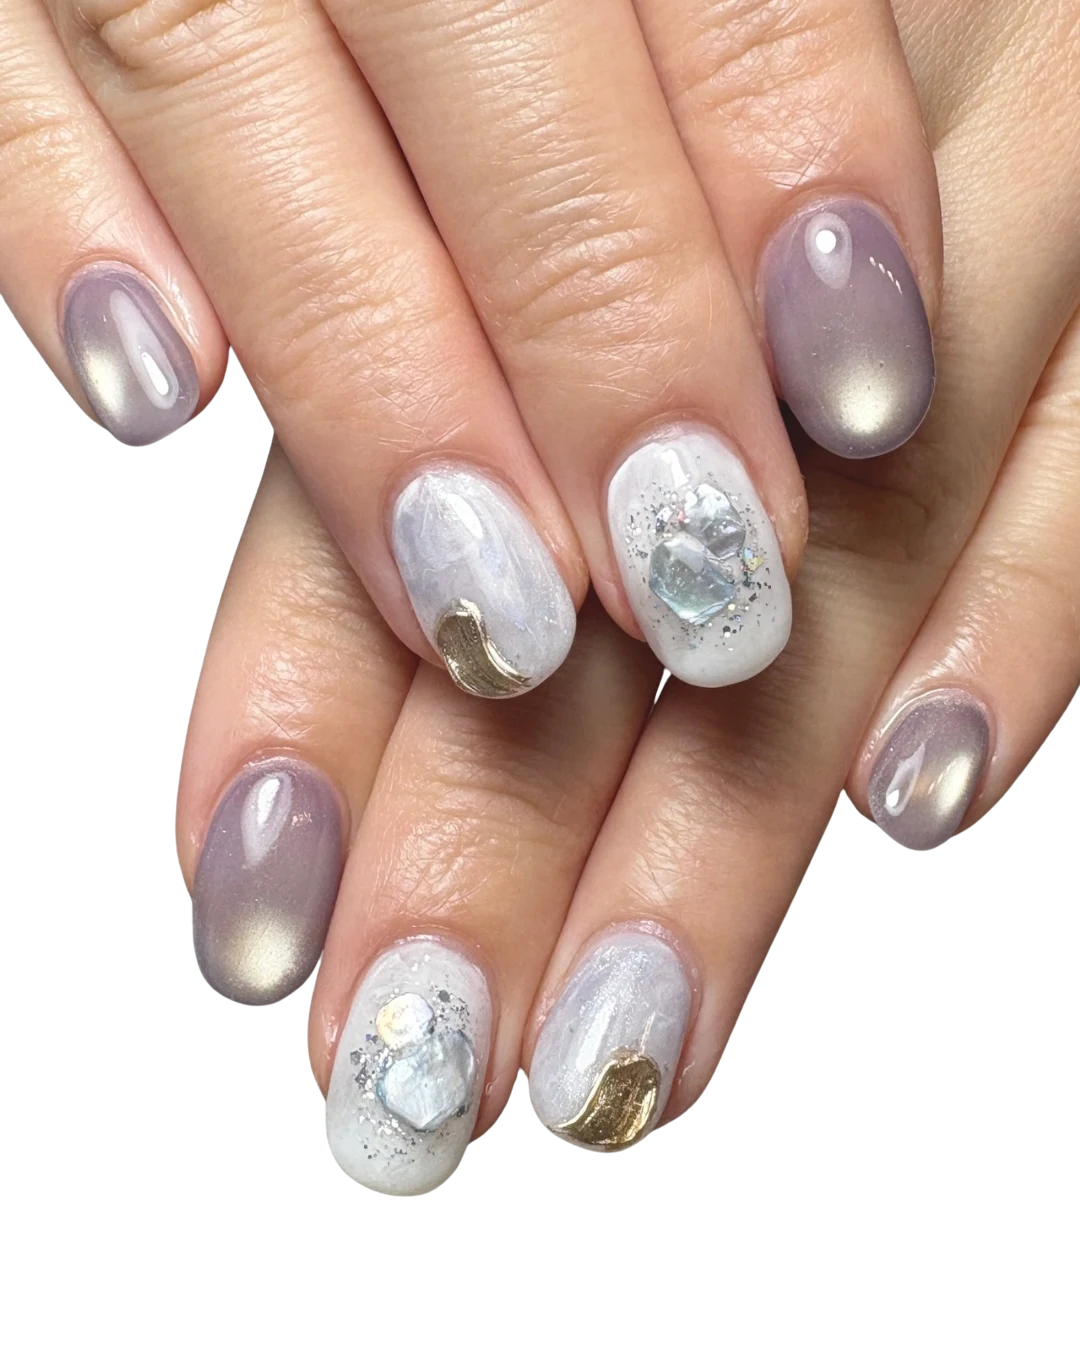
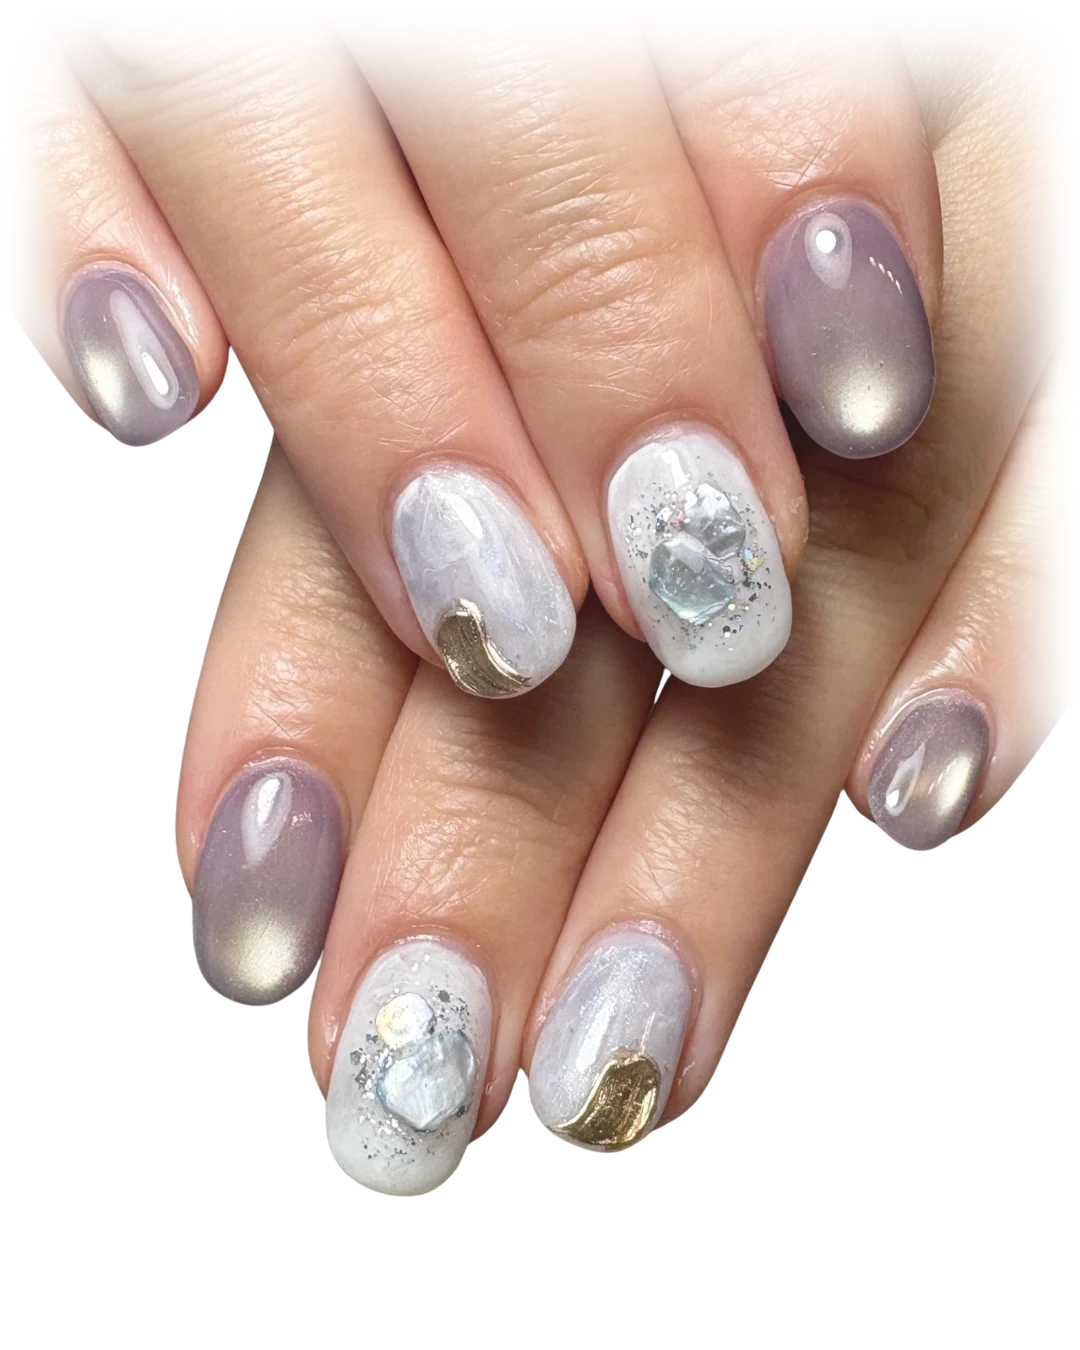
style: polish spacing, borders, and CTA layout across pages
Tightens divider colors, replaces gallery Instagram section with a
feature CtaBanner, moves menu flow steps into a full-width section,
and reorders concept icon imports.

Changed region(s): [[0.0, 0.0, 1.0, 0.5911]]

diff --git a/app/gallery/page.tsx b/app/gallery/page.tsx
@@ -85,36 +85,14 @@ export default async function GalleryPage() {
 
       <div className="max-w-5xl mx-auto w-full">
         <GalleryClient items={items} />
-
-        {/* Instagram */}
-        <section className="px-6 py-8 bg-[#F5F1FA] border-y border-[#EADFF3] flex flex-col md:flex-row items-start md:items-center justify-between gap-6">
-          <div>
-            <p className="font-serif text-sm font-medium text-[#312F55] mb-1.5">
-              最新のデザインはInstagramで随時更新中
-            </p>
-            <p className="text-xs text-[#6B6880] leading-[1.75]">
-              営業日のお知らせもInstagramのハイライトでご確認いただけます。
-              <br />
-              フォローしていただけると最新情報をお届けします。
-            </p>
-          </div>
-          <a
-            href="https://www.instagram.com/trea_nails_/"
-            target="_blank"
-            rel="noopener noreferrer"
-            className="shrink-0 inline-flex items-center gap-2 px-5 py-2.5 rounded-full text-sm font-medium border-[1.5px] border-[#833AB4] text-[#833AB4] bg-[#faf0ff] hover:bg-[#eed9ff] transition-colors"
-          >
-            <Camera size={16} />
-            Instagram: @trea_nails_
-          </a>
-        </section>
       </div>
 
       <CtaBanner
-        title="気になるデザインがあればご予約時にお知らせください"
-        description="画像をそのまま送っていただくと、イメージが伝わりやすいです"
-        primaryLabel="ご予約はこちら"
-        primaryHref="/reservation"
+        variant="feature"
+        title="最新のデザインはInstagramで随時更新中"
+        description="営業日のお知らせもInstagramのハイライトでご確認いただけます。"
+        primaryLabel="Instagram: @trea_nails_"
+        primaryHref="https://www.instagram.com/trea_nails_/"
       />
     </>
   );

diff --git a/app/globals.css b/app/globals.css
@@ -1,21 +1,23 @@
 @import "tailwindcss";
 
 :root {
-  --purple-primary: #7E78A3;   /* 塗りボタン・メインアクセント */
-  --purple-primary-dark: #6A6390; /* ホバー */
-  --purple-accent: #9690AE;    /* アイコン円・ボーダー・中間アクセント */
-  --purple-text: #5D5786;      /* アクセントテキスト・リンク */
-  --purple-dark: #4A4468;      /* 濃色テキスト・アウトラインボタン */
-  --purple-light-border: #D5D2E3;
-  --purple-light-bg: #EFEDF5;
-  --navy-heading: #312F55;     /* 見出し */
-  --lavender-section: #EFEBF1; /* ラベンダー系セクション背景 */
-  --cream-section: #F7F4F2;    /* クリーム系セクション背景 */
+  --purple-primary: #7e78a3; /* 塗りボタン・メインアクセント */
+  --purple-primary-dark: #6a6390; /* ホバー */
+  --purple-accent: #9690ae; /* アイコン円・ボーダー・中間アクセント */
+  --purple-text: #5d5786; /* アクセントテキスト・リンク */
+  --purple-dark: #4a4468; /* 濃色テキスト・アウトラインボタン */
+  --purple-light-border: #d5d2e3;
+  --purple-light-bg: #efedf5;
+  --navy-heading: #312f55; /* 見出し */
+  --lavender-section: #efebf1; /* ラベンダー系セクション背景 */
+  --cream-section: #f7f4f2; /* クリーム系セクション背景 */
 }
 
 @theme inline {
-  --font-sans: var(--font-noto-sans-jp), "Hiragino Kaku Gothic ProN", "Meiryo", sans-serif;
-  --font-serif: var(--font-noto-serif-jp), "Hiragino Mincho ProN", "Yu Mincho", serif;
+  --font-sans:
+    var(--font-noto-sans-jp), "Hiragino Kaku Gothic ProN", "Meiryo", sans-serif;
+  --font-serif:
+    var(--font-noto-serif-jp), "Hiragino Mincho ProN", "Yu Mincho", serif;
 }
 
 body {

diff --git a/app/concept/page.tsx b/app/concept/page.tsx
@@ -2,7 +2,7 @@ import SectionHeading from "@/components/common/SectionHeading";
 import SalonThought from "@/components/concept/SalonThought";
 import NameOrigin from "@/components/concept/NameOrigin";
 import CtaBanner from "@/components/common/CtaBanner";
-import { Home, Scissors, Sparkles, HandHeart } from "lucide-react";
+import { HandHeart, Home, Scissors, Sparkles } from "lucide-react";
 
 const values = [
   {
@@ -29,10 +29,10 @@ export default function ConceptPage() {
   return (
     <>
       {/* Page header */}
-      <div className="w-full  border-b border-[#D5D2E3] bg-[url('/images/common/bg-marble.webp')] bg-cover bg-center">
+      <div className="w-full bg-[url('/images/common/bg-marble.webp')] bg-cover bg-center border-b border-[#D5D2E3]">
         <div className="max-w-5xl mx-auto px-6 py-10">
-          <p className="text-[11px] text-[#5D5786] tracking-[.12em] mb-4 font-medium">
-            ✦ CONCEPT
+          <p className="flex items-center gap-2.5 text-xs font-medium text-[#312F55] tracking-[.16em] mb-6">
+            <Sparkles size={15} className="text-[#5D5786]" />✦ CONCEPT
           </p>
           <h1 className="font-serif text-2xl font-medium leading-[1.65] text-[#3A3560] mb-4">
             ネイルを通して、
@@ -50,7 +50,6 @@ export default function ConceptPage() {
       {/* Salon thought */}
       <div className="max-w-5xl mx-auto w-full">
         <SalonThought />
-
         {/* Values */}
         <section className="py-10 px-6 border-b border-[#E4E2EE]">
           <p className="flex items-center gap-2.5 text-xs font-medium text-[#312F55] tracking-[.16em] mb-6">

diff --git a/components/concept/SalonThought.tsx b/components/concept/SalonThought.tsx
@@ -3,8 +3,8 @@ import { Sparkles } from "lucide-react";
 
 export default function SalonThought() {
   return (
-    <section className="py-12 px-6 border-b border-[#E4E2EE] ">
-      <div className="grid md:grid-cols-2 gap-10 items-start">
+    <section className="py-12 px-6 border-b border-[#E4E2EE] bg-[#F7F4F2]">
+      <div className="grid md:grid-cols-[minmax(0,0.85fr)_minmax(0,1.15fr)] gap-10 items-center">
         <div>
           <p className="flex items-center gap-2.5 text-xs font-medium text-[#312F55] tracking-[.16em] mb-6">
             <Sparkles size={15} className="text-[#5D5786]" />
@@ -41,13 +41,13 @@ export default function SalonThought() {
           </p>
         </div>
 
-        <div className="relative h-56 md:h-64 rounded-xl overflow-hidden bg-[#EDEBF4]">
+        <div className="relative w-full aspect-[4/3] rounded-xl overflow-hidden bg-[#EDEBF4]">
           <Image
             src="/images/concept/salon-thought.webp"
             alt="サロン内観（仮画像 / PLACEHOLDER）"
             fill
             className="object-cover"
-            sizes="(max-width: 768px) 100vw, 50vw"
+            sizes="(max-width: 768px) 100vw, 560px"
           />
           <span className="absolute bottom-2 right-2 text-[10px] bg-black/40 text-white px-2 py-0.5 rounded">
             PLACEHOLDER

diff --git a/components/common/CtaBanner.tsx b/components/common/CtaBanner.tsx
@@ -26,9 +26,11 @@ export default function CtaBanner({
   if (variant === "feature") {
     return (
       <section className="w-full bg-[url('/images/common/bg-marble.webp')] bg-cover bg-center">
-        <div className="max-w-5xl mx-auto px-6 py-10 flex flex-col md:flex-row items-start md:items-center justify-between gap-6">
+        <div className="max-w-5xl mx-auto px-6 py-15 flex flex-col md:flex-row items-start md:items-center justify-between gap-6">
           <div>
-            <p className="font-serif text-lg font-medium text-[#312F55] mb-1.5">{title}</p>
+            <p className="font-serif text-lg font-medium text-[#312F55] mb-1.5">
+              {title}
+            </p>
             {description && (
               <p className="text-sm text-[#6B6880]">{description}</p>
             )}
@@ -51,7 +53,9 @@ export default function CtaBanner({
   return (
     <section className={`w-full ${bg ? "bg-[#F6F5F9]" : ""}`}>
       <div className="max-w-5xl mx-auto px-6 py-12 text-center">
-        <p className="font-serif text-sm font-medium text-[#312F55] mb-2">{title}</p>
+        <p className="font-serif text-sm font-medium text-[#312F55] mb-2">
+          {title}
+        </p>
         {description && (
           <p className="text-xs text-[#6B6880] mb-6">{description}</p>
         )}

diff --git a/app/menu/page.tsx b/app/menu/page.tsx
@@ -31,9 +31,11 @@ export default function MenuPage() {
       <div className="max-w-5xl mx-auto w-full px-6 py-8">
         {/* Menu table */}
         <MenuTable />
+      </div>
 
-        {/* Flow */}
-        <section className="mt-10">
+      {/* Flow — full width background */}
+      <section className="w-full bg-[#EFEBF1]">
+        <div className="max-w-5xl mx-auto px-6 py-10">
           <div className="flex items-center gap-2 mb-5">
             <span className="text-[#5D5786]">✦</span>
             <span className="font-serif text-sm font-medium text-[#312F55]">
@@ -41,11 +43,11 @@ export default function MenuPage() {
             </span>
           </div>
           <ReservationFlowSteps />
-        </section>
-      </div>
+        </div>
+      </section>
 
       {/* Notes */}
-      <section className="w-full bg-[url('/images/common/bg-marble.webp')] bg-cover bg-center border-y border-[#E4E2EE]">
+      <section className="w-full border-y border-[#E4E2EE]">
         <div className="max-w-5xl mx-auto px-6 py-10">
           <div className="flex items-center gap-2 mb-4">
             <span className="text-[#5D5786]">✦</span>

diff --git a/components/faq/FaqAccordionItem.tsx b/components/faq/FaqAccordionItem.tsx
@@ -19,7 +19,7 @@ export default function FaqAccordionItem({
   return (
     <div
       className={`border rounded-xl overflow-hidden mb-2 ${
-        open ? "border-[#D5D2E3]" : "border-[#E4E2EE]"
+        open ? "border-[#B7B2CC]" : "border-[#CFCCDD]"
       }`}
     >
       <button
@@ -35,7 +35,7 @@ export default function FaqAccordionItem({
       </button>
 
       {open && (
-        <div className="px-4 py-3.5 border-t border-[#D5D2E3] bg-white">
+        <div className="px-4 py-3.5 border-t border-[#CFCCDD] bg-white">
           {answer.split("\n\n").map((para, i) => {
             if (para.startsWith("⚠")) {
               return (

diff --git a/components/menu/ReservationFlowSteps.tsx b/components/menu/ReservationFlowSteps.tsx
@@ -38,7 +38,7 @@ export default function ReservationFlowSteps() {
       {steps.map((step, i) => (
         <div
           key={i}
-          className="relative bg-white border border-[#E4E2EE] rounded-xl p-5 pt-6 flex flex-col items-center text-center gap-2"
+          className="relative bg-white border border-[#CFCCDD] rounded-xl p-5 pt-6 flex flex-col items-center text-center gap-2"
         >
           <span className="absolute top-2.5 left-2.5 w-5 h-5 rounded-full bg-[#EFEDF5] text-[#5D5786] text-[10px] font-semibold flex items-center justify-center">
             {String(i + 1).padStart(2, "0")}

diff --git a/components/menu/MenuTable.tsx b/components/menu/MenuTable.tsx
@@ -20,7 +20,7 @@ export default function MenuTable() {
           </div>
 
           {/* Items */}
-          <div className="divide-y divide-[#EDEBF4] px-5 bg-white rounded-xl shadow-sm">
+          <div className="divide-y divide-[#DDDAE8] px-5 bg-white rounded-xl border border-[#CFCCDD] shadow-sm">
             {cat.items.map((item, i) => (
               <div
                 key={i}
